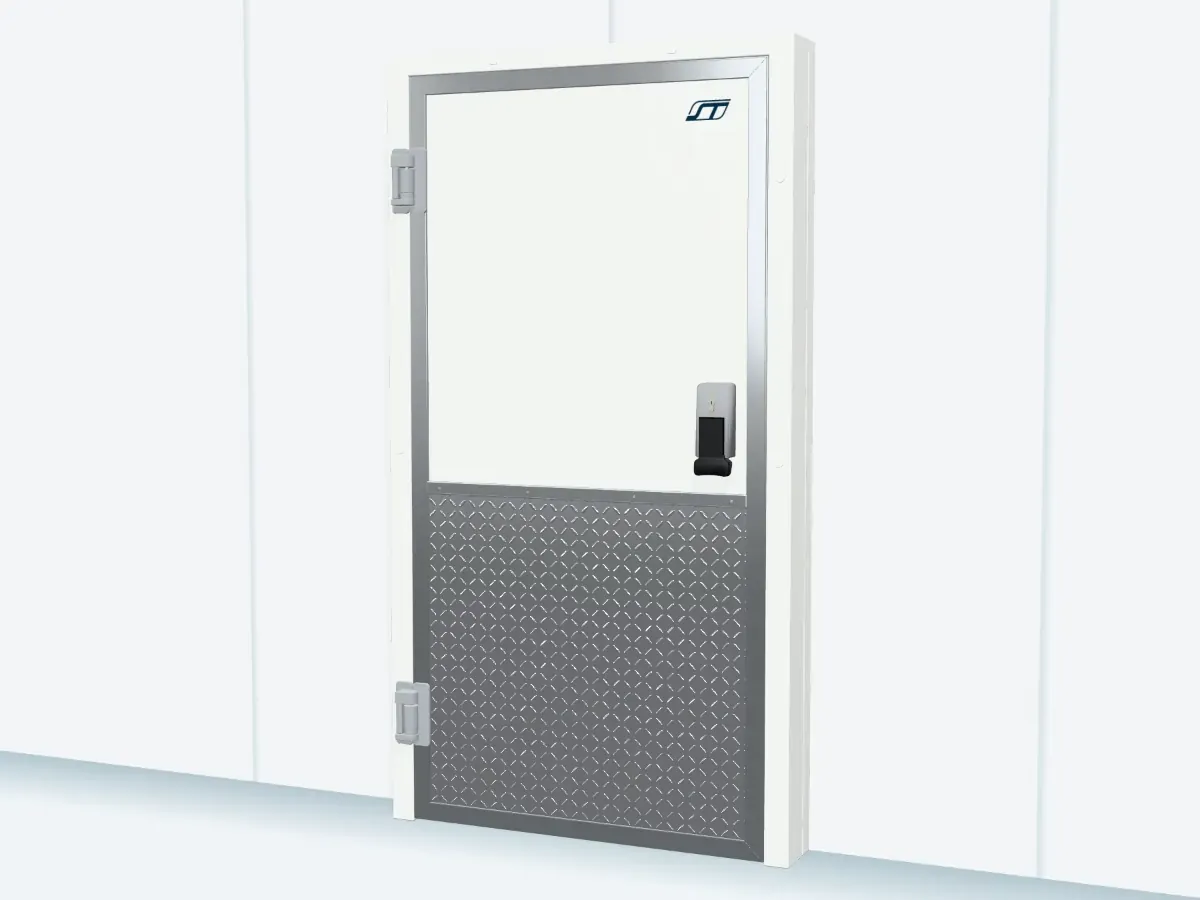
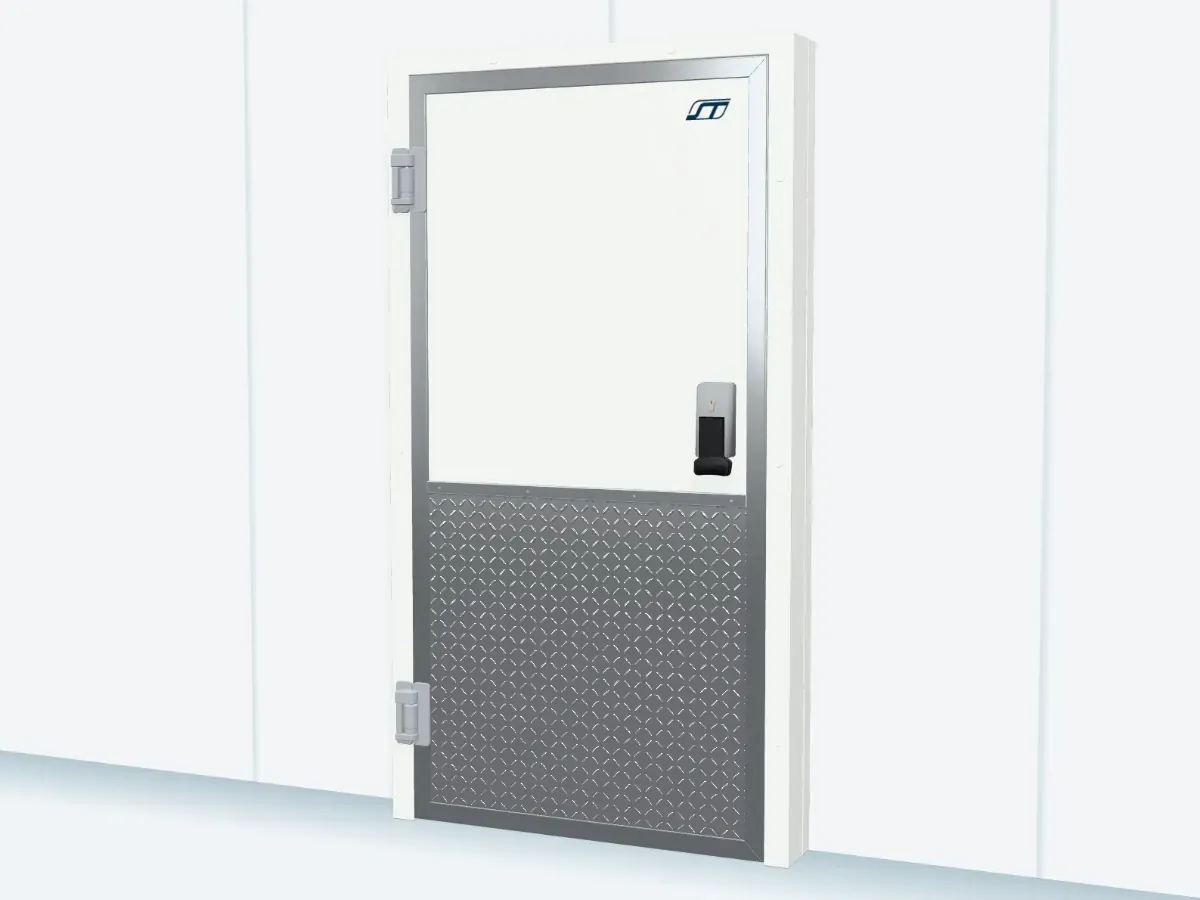
Fase 14: sin saltos al cargar el Inicio y escáner de la abatible con el liberador nuevo
- La página tiene desde el primer cuadro el acomodo final de la entrada (clase .js en el <head>); la puerta y
  el muro aparecen ya en su lugar, medidos con la letra definitiva (CLS de 0.013–0.066 a 0.0001).
- Rayos X y fotos de la abatible vueltos a dibujar con el liberador a su tamaño real.
- Pruebas: f7 (11/11), f9/duo_pages y f11/flow11b adaptadas; cadena completa en verde.

Claude-Session: https://claude.ai/code/session_01TBWQEjLHZPnHA2zJL6ZtDh

diff --git a/src/styles/home.css b/src/styles/home.css
@@ -17,15 +17,10 @@ body[data-page="inicio"] .nav { position: fixed; inset: 0 0 auto 0; }
    ras de piso, el muro crece hasta que cruzas el vano en una bocanada de vaho y queda la cámara fría, clara, con las
    tres puertas. Sin azul marino ni pantallas vacías; menos de una pantalla de recorrido. */
 .hx { --fb: 132px; --top: 300px; --dw: min(94vw, 58svh); --persp: 900px; --run: 90svh; position: relative; background: var(--c-wall); color: var(--c-ink); }
-.hx--live { height: calc(100svh + var(--run)); }
 .hx__pin { position: relative; height: 100svh; min-height: 560px; overflow: hidden; isolation: isolate; }
-.hx--live .hx__pin { position: sticky; top: 0; }
 
 /* ----- adentro: la cámara fría ----- */
 .hx__in { position: absolute; inset: 0; z-index: 0; display: flex; flex-direction: column; color: var(--c-ink); background: #EEF5F8; transform-origin: 50% 50%; }
-.hx--live:not(.is-set) .hx__in { visibility: hidden; }
-.hx--live .hx__in { will-change: transform; }
-.hx--live .hx__in.is-here { will-change: auto; }
 .hx__room { --fl: 89%; --pj: 26vw; position: absolute; inset: 0; pointer-events: none;
   background:
     radial-gradient(80% 42% at 50% 0%, rgba(255, 255, 255, .95), rgba(255, 255, 255, 0) 72%),
@@ -77,11 +72,12 @@ body[data-page="inicio"] .nav { position: fixed; inset: 0 0 auto 0; }
 
 /* ----- afuera: muro, piso y puerta ----- */
 .hx__out { position: absolute; inset: 0; z-index: 1; }
-.hx--live .hx__out { will-change: transform; }
 .hx__w { position: absolute; left: 0; top: 0; width: 0; height: 0; display: block; background: radial-gradient(78% 64% at 56% 32%, #FFFFFF 0%, #F8FAFB 46%, #ECF0F3 100%); }
 .hx__floor { background: linear-gradient(180deg, #D9DFE3 0, #E7EBEE 22%, #F1F3F5 100%) !important; }
 .hx__door { position: absolute; left: 0; right: 0; bottom: var(--fb); width: var(--dw); margin-inline: auto; aspect-ratio: var(--ar); touch-action: pan-y; -webkit-tap-highlight-color: transparent; user-select: none; -webkit-user-select: none; }
 .hx:not(.is-ready) .hx__door { background: var(--c-wall); }
+/* con JavaScript la puerta aparece ya en su lugar (se acomoda antes de verse: sin saltos al cargar) */
+.js .hx:not(.is-set) .hx__door, .js .hx:not(.is-set) .hx__w { visibility: hidden; }
 /* sombra de contacto sobre el piso y sombra suave del marco sobre el muro */
 .hx__door::before { content: ""; position: absolute; left: -3%; right: -3%; bottom: -3.4%; height: 7%; border-radius: 50%; background: radial-gradient(closest-side, rgba(12, 38, 54, .34), rgba(12, 38, 54, 0)); }
 .hx__door::after { content: ""; position: absolute; inset: 0; z-index: -1; box-shadow: 0 24px 60px -28px rgba(12, 38, 54, .45); pointer-events: none; }
@@ -91,7 +87,6 @@ body[data-page="inicio"] .nav { position: fixed; inset: 0 0 auto 0; }
 /* bajo las hojas (holgura de 2 cm) se ve el piso de adentro, no lo que hay más allá */
 .hx__sill { position: absolute; left: 4.5%; right: 4.5%; top: 97.4%; bottom: 0; background: linear-gradient(180deg, #CFDCE3, #E4EDF1); pointer-events: none; }
 .hx__leaf { position: absolute; overflow: hidden; -webkit-backface-visibility: hidden; backface-visibility: hidden; cursor: grab; }
-.hx--live .hx__leaf { will-change: transform; }
 .hx__leaf--l { transform-origin: 0 50%; }
 .hx__leaf--r { transform-origin: 100% 50%; }
 .hx__leaf img { display: block; width: 100%; height: 100%; pointer-events: none; -webkit-user-drag: none; }
@@ -103,7 +98,6 @@ body[data-page="inicio"] .nav { position: fixed; inset: 0 0 auto 0; }
 .hx__frame { position: absolute; inset: 0; width: 100%; height: 100%; pointer-events: none; -webkit-user-drag: none; }
 /* el aire frío pesa: sale a ras de piso y se extiende hacia ti */
 .hx__spill { position: absolute; z-index: 2; left: -34%; right: -34%; bottom: -13%; height: 44%; opacity: .16; pointer-events: none; transform-origin: 50% 100%; }
-.hx--live .hx__spill { will-change: transform, opacity; }
 .hx__spill i { position: absolute; inset: 0; background: var(--vaho-banco, none) 50% 100% / 100% 100% no-repeat; }
 .hx__spill i:nth-child(2) { inset: 16% 8% -2% 18%; }
 .hx__spill i:nth-child(3) { inset: 34% 22% -8% 16%; opacity: .8; }
@@ -117,13 +111,11 @@ body[data-page="inicio"] .nav { position: fixed; inset: 0 0 auto 0; }
 /* ----- el texto, pintado en el muro ----- */
 .hx__copy { position: absolute; inset: 0 0 auto 0; z-index: 3; display: grid; align-content: center; gap: clamp(16px, 2.4vh, 28px); height: 100%; padding-top: var(--nav-h); pointer-events: none; }
 .hx__copy > * { pointer-events: auto; }
-.hx--live .hx__copy { will-change: transform, opacity; }
 .hx h1 { font-size: clamp(2.75rem, 0.9rem + 6.2vw, 7.4rem); line-height: .94; letter-spacing: -0.038em; max-width: 8.4ch; }
 .hx__lead { margin: 0; font-size: var(--t-lg); color: var(--c-ink-soft); max-width: 31ch; }
 .hx__cta { gap: var(--s-3); }
 .hx__cue { position: absolute; z-index: 3; left: var(--pad-x); bottom: 22px; margin: 0; display: grid; justify-items: start; gap: 8px; font-size: var(--t-xs); font-weight: var(--w-medium); color: var(--c-ink-soft); pointer-events: none; }
 .hx__cue::after { content: ""; width: 1px; height: 28px; background: linear-gradient(var(--c-ink-soft), transparent); }
-.hx:not(.hx--live) .hx__cue { display: none; }
 /* horizontal: el título a la izquierda y la puerta a la derecha, de pie sobre el piso */
 @media (min-aspect-ratio: 9/8) and (min-width: 700px) {
   .hx__door { left: auto; right: max(var(--pad-x), 4vw); margin: 0; bottom: 8%; }
@@ -150,11 +142,34 @@ body[data-page="inicio"] .nav { position: fixed; inset: 0 0 auto 0; }
 @keyframes hx-drift { from { transform: translate3d(-3%, 0, 0); } to { transform: translate3d(3%, -3%, 0); } }
 @keyframes hx-drift-m { from { transform: translate3d(3%, 0, 0) scaleX(-1); } to { transform: translate3d(-4%, -4%, 0) scaleX(-1); } }
 @keyframes baja { 0% { transform: scaleY(0); } 50% { transform: scaleY(1); } 100% { transform: scaleY(1); opacity: 0; } }
+/* Con JavaScript y movimiento, la entrada se alarga y se queda fija mientras abre. Es el acomodo desde el primer
+   cuadro (la clase .js la pone el <head>): así nada brinca cuando llega el JavaScript. */
+@media (prefers-reduced-motion: no-preference) {
+  .js .hx { height: calc(100svh + var(--run)); }
+  .js .hx__pin { position: sticky; top: 0; }
+  .js .hx:not(.is-set) .hx__in { visibility: hidden; }
+  .js .hx__in { will-change: transform; }
+  .js .hx__in.is-here { will-change: auto; }
+  .js .hx__out, .js .hx__leaf { will-change: transform; }
+  .js .hx__spill, .js .hx__copy { will-change: transform, opacity; }
+}
 /* sin movimiento (o sin JavaScript): la puerta cerrada arriba y las tres puertas debajo, una después de otra */
-.hx:not(.hx--live) .hx__pin { height: auto; min-height: 0; padding-top: max(100svh, 560px); }
-.hx:not(.hx--live) .hx__out, .hx:not(.hx--live) .hx__copy { bottom: auto; height: max(100svh, 560px); }
-.hx:not(.hx--live) .hx__in { position: relative; inset: auto; padding-bottom: var(--section-y); }
-@media (min-width: 900px) { .hx:not(.hx--live) .hx__in { min-height: max(100svh, 560px); } }
+@media (prefers-reduced-motion: reduce) {
+  .hx__pin { height: auto; min-height: 0; padding-top: max(100svh, 560px); }
+  .hx__out, .hx__copy { bottom: auto; height: max(100svh, 560px); }
+  .hx__in { position: relative; inset: auto; padding-bottom: var(--section-y); }
+  .hx__cue { display: none; }
+}
+html:not(.js) .hx__pin { height: auto; min-height: 0; padding-top: max(100svh, 560px); }
+html:not(.js) .hx__out, html:not(.js) .hx__copy { bottom: auto; height: max(100svh, 560px); }
+html:not(.js) .hx__in { position: relative; inset: auto; padding-bottom: var(--section-y); }
+html:not(.js) .hx__cue { display: none; }
+@media (min-width: 900px) {
+  html:not(.js) .hx__in { min-height: max(100svh, 560px); }
+}
+@media (min-width: 900px) and (prefers-reduced-motion: reduce) {
+  .hx__in { min-height: max(100svh, 560px); }
+}
 
 /* ---------- adentro ---------- */
 .inside { background: var(--c-navy); color: var(--c-on-navy); }

diff --git a/src/home/umbral.js b/src/home/umbral.js
@@ -202,10 +202,16 @@ export function mountUmbral(section) {
   function kick() { if (!raf) raf = requestAnimationFrame(frame); }
 
   // ---------- arranque ----------
-  layout();
-  addEventListener('resize', () => { clearTimeout(layout.t); layout.t = setTimeout(layout, 80); });
-  if (document.fonts) document.fonts.ready.then(layout);
-  new ResizeObserver(() => layout()).observe(pin);
+  // La puerta se acomoda alrededor del texto: se mide ya con la letra definitiva (Outfit) para no moverla después
+  // (hasta 1 s; sin la letra se acomoda con la de reserva y se vuelve a medir si cambia). Hasta entonces la puerta y el
+  // muro no se ven: aparecen ya en su lugar, sin saltos.
+  let armed = false;
+  const relayout = () => { if (armed) layout(); };
+  addEventListener('resize', () => { clearTimeout(layout.t); layout.t = setTimeout(relayout, 80); });
+  new ResizeObserver(relayout).observe(pin);
+  const fonts = document.fonts ? Promise.all(['400 1em Outfit', '500 1em Outfit', '700 1em Outfit', '800 1em Outfit'].map((f) => document.fonts.load(f).catch(() => {}))) : Promise.resolve();
+  Promise.race([fonts, new Promise((r) => setTimeout(r, 1000))]).then(() => { armed = true; layout(); });
+  if (document.fonts) document.fonts.ready.then(relayout);
   // fuera de pantalla, el vaho deja de moverse (sus animaciones de CSS)
   new IntersectionObserver(([e]) => section.classList.toggle('is-away', !e.isIntersecting), { rootMargin: '10% 0px' }).observe(pin);
   // la puerta «respira» una vez al cargar: la diferencia de presión del cuarto frío empuja las hojas y regresan solas

diff --git a/index.html b/index.html
@@ -5,6 +5,7 @@
 <title>ST Doors — Puertas para cámaras frigoríficas y exhibición Reach-In</title>
 <meta name="description" content="Puertas abatibles y corredizas para cámaras frigoríficas, vaivén semi aislantes y puertas de exhibición Reach-In CDS Legacy. Ábrelas y recórrelas en 3D.">
 <link rel="icon" href="/favicon.png">
+<script>document.documentElement.classList.add('js')</script>
 </head>
 <body data-page="inicio">
 <main id="main">

diff --git a/docs/FASE_10_RESUMEN.md b/docs/FASE_10_RESUMEN.md
@@ -671,7 +671,8 @@ rehízo a su tamaño real (`src/viewers/abatible.js`, grupo `Liberador`):
 - palanca verde de 7.2 × 9.6 cm con las dos esquinas del lado de la caja cortadas y la etiqueta luminosa «PUSH»;
 - lengüeta gris hacia el canto, que termina antes del empaque. Todo junto mide ~24 × 15 cm.
 El modelo de «Verla en tu espacio» se volvió a exportar (`python3 scripts/build-ar.py --solo abatible`) y «Por dentro»
-señala el liberador nuevo.
+señala el liberador nuevo. El escáner del Inicio (rayos X de la abatible) se volvió a dibujar con él
+(`python3 scripts/render-escaner.py --solo abatible`).
 
 ## Entrada del Inicio: «el umbral»
 Quien probó el sitio dijo que al bajar todo se volvía azul y había que seguir bajando: la entrada medía 2.5 pantallas
@@ -696,7 +697,10 @@ Quien probó el sitio dijo que al bajar todo se volvía azul y había que seguir
   procesador 4 veces más lento: ~1 ms de JavaScript por cuadro, 60 cuadros por segundo y sin tareas largas.
 - Movimiento reducido o sin JavaScript: la puerta cerrada en la primera pantalla y las tres puertas debajo.
 - Con el teclado, al llegar a las puertas de adentro se cruza la puerta para que se vean.
+- Sin saltos al cargar (CLS 0.0001): desde el primer cuadro la página ya tiene el acomodo final (la clase `js` la pone
+  el `<head>`) y la puerta aparece ya en su lugar, medida con la letra definitiva.
 
 Pruebas: `/home/claude/f14/flow14.py` (33/33: tamaño del liberador, entrada en teléfono y computadora, empujar,
 diez tamaños de pantalla, sin azul marino en ninguna parte de la entrada, movimiento reducido, sin JavaScript, axe).
-Se adaptaron `f10/home.py`, `f10/hero_sizes.py`, `f11/flow11b.py` y `f12/smoke.py` a la entrada nueva.
+Se adaptaron `f10/home.py`, `f10/hero_sizes.py`, `f11/flow11b.py` (9 capítulos en el termómetro), `f9/duo_pages.py` y
+`f12/smoke.py` a la entrada nueva. Cadena completa (`/home/claude/f14/chain14.sh`, 23 pruebas): todo bien.
